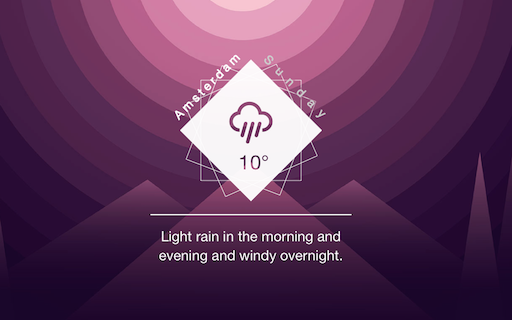
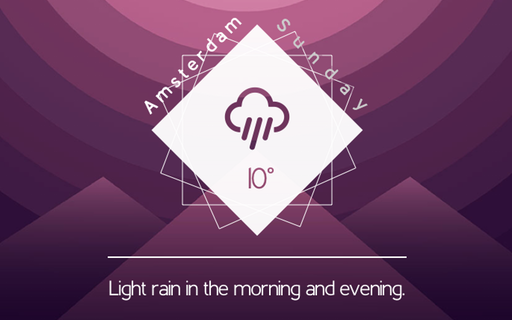
updated readme and screenhot

diff --git a/README.md b/README.md
@@ -1,11 +1,15 @@
-# Notes
+# A minimal weather widget for Übersicht
 
-Replace <api-key> inside `index.coffee` with your own forecast.io api key. You can get yours here: https://developer.forecast.io. You also need to enter your lat/lon coordinates, which you can find using google maps for example.
+> http://tracesof.net/uebersicht/
+
+## Installation
+
+Add your own forecast.io api key inside `index.coffee`. You can get yours here: https://developer.forecast.io. Make sure not use TextEdit to modify the file, since it is known to break the widget. If you do want to use TextEdit, make sure to uncheck 'smart quotes' in the TextEdit preferences before editing.
 
 To get the same font as on the screenshot you can download the great Berlin font by Antonio Rodriges. http://antoniorodriguesjr.com/fonts.html
 
 
-# Credits
+## Credits
 
 Icons by Erik Flowers
 
